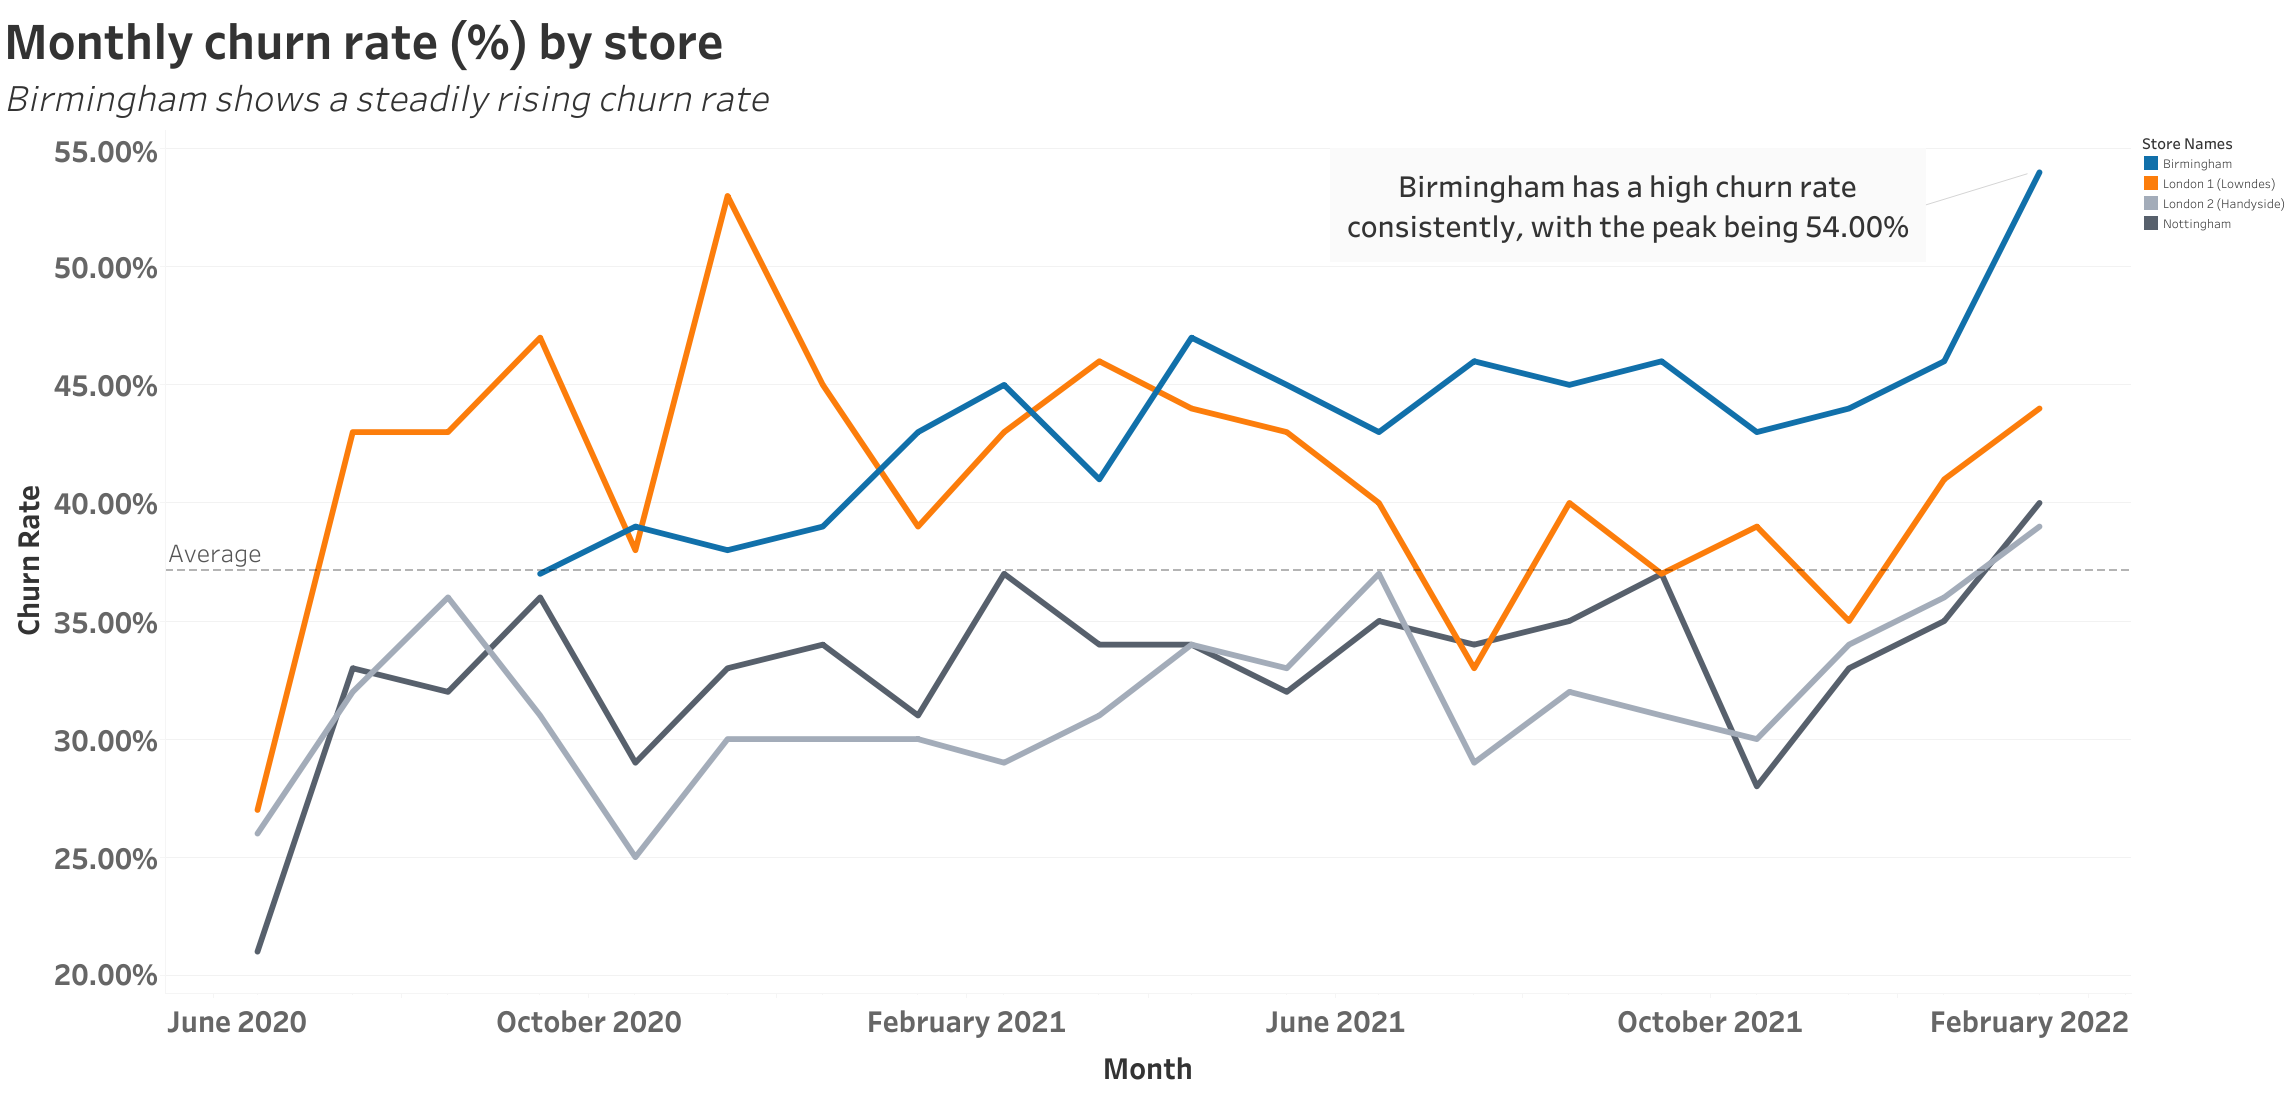
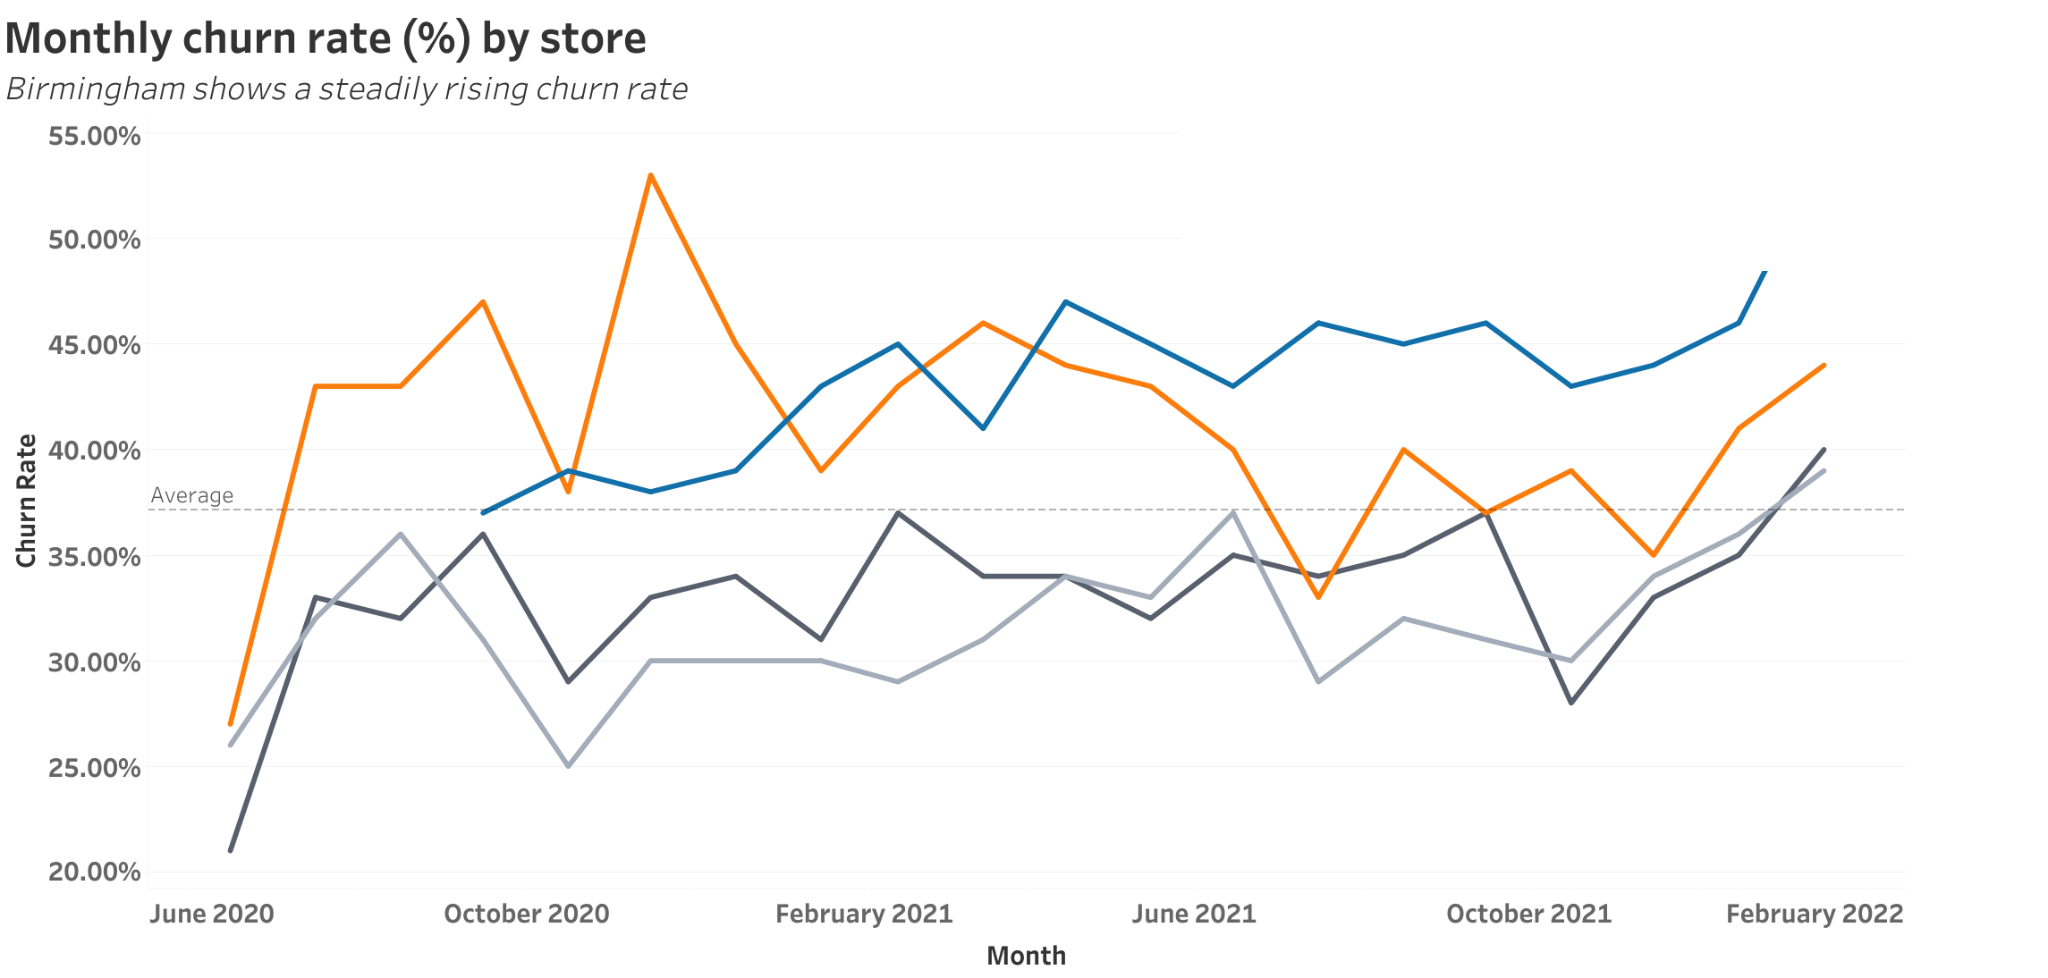
privacy changes

diff --git a/projects/store-analysis.html b/projects/store-analysis.html
@@ -113,7 +113,8 @@
             I developed monthly churn and new customer growth metrics, which became key inputs into the final recommendation.
           </p>
           <p>
-            The aim was to understand not just how each store was performing, but why.
+            The aim was to understand not just how each store was performing, but why. It is also important to note that these figures have been modified for public sharing.
+            Exact names and numbers can be shared privately upon request.
           </p>
         </section>
 
@@ -131,8 +132,8 @@
         <section>
           <h3>Key Insight</h3>
           <p>
-            One store, Birmingham, showed a very different pattern compared to the others. It had the highest churn rate in the dataset, peaking at around 54%,
-            well above the company average of roughly 37%.
+            One store, marked in blue, showed a very different pattern compared to the others. It had the highest churn rate in the dataset, peaking at around 54%,
+            well above the company average rate shown below.
           </p>
           <p>
             However, its new customer growth rate remained broadly in line with the other stores, including the strongest performer. This was the key insight.
@@ -150,7 +151,7 @@
                 <img src="../images/das1.png" alt="Monthly churn rate by store" class="dashboard-img" />
               </a>
               <figcaption>
-                Birmingham consistently records the highest churn, often above the company average, pointing to a clear retention issue.
+                The blue store consistently records the highest churn, often above the company average, pointing to a clear retention issue.
               </figcaption>
             </figure>
             <p>
@@ -165,7 +166,7 @@
                 <img src="../images/das2.png" alt="Monthly growth rate by store" class="dashboard-img" />
               </a>
               <figcaption>
-                Despite high churn, Birmingham's growth trend is similar to other stores, indicating demand is still present.
+                Despite high churn, the blue store's growth trend is similar to other stores, indicating demand is still present.
               </figcaption>
             </figure>
             <p>
@@ -178,7 +179,7 @@
         <section>
           <h3>Recommendation</h3>
           <p>
-            Our group recommended focusing marketing investment on Birmingham. While it underperforms on headline metrics, it offers the strongest upside.
+            Our group recommended focusing marketing investment on the blue store. While it underperforms on headline metrics, it offers the strongest upside.
           </p>
           <ul>
             <li>Customers are still being acquired at a normal rate</li>

diff --git a/projects/ecommerce-sales-analysis.html b/projects/ecommerce-sales-analysis.html
@@ -50,10 +50,10 @@
               <li>
                 <a class="icon solid fa-th" href="../projects.html"><span>Projects</span></a>
                 <ul>
-                <li><a href="ecommerce-sales-analysis.html"><span>E-Commerce Sales Analysis</span></a></li>
-                <li><a href="steam-games-analysis.html"><span>Steam Games Analysis</span></a></li>
-                <li><a href="classification-models.html"><span>Classification Models</span></a></li>
-                <li><a href="store-analysis.html"><span>Store Performance Analysis</span></a></li>
+                  <li><a href="ecommerce-sales-analysis.html"><span>E-Commerce Sales Analysis</span></a></li>
+                  <li><a href="steam-games-analysis.html"><span>Steam Games Analysis</span></a></li>
+                  <li><a href="classification-models.html"><span>Classification Models</span></a></li>
+                  <li><a href="store-analysis.html"><span>Store Performance Analysis</span></a></li>
                   <!-- Add more project links here -->
                 </ul>
               </li>

diff --git a/index.html b/index.html
@@ -23,10 +23,10 @@
 			  <li>
 				<a class="icon solid fa-th" href="projects.html"><span>Projects</span></a>
 				<ul>
-				<li><a href="ecommerce-sales-analysis.html"><span>E-Commerce Sales Analysis</span></a></li>
-                <li><a href="steam-games-analysis.html"><span>Steam Games Analysis</span></a></li>
-                <li><a href="classification-models.html"><span>Classification Models</span></a></li>
-                <li><a href="store-analysis.html"><span>Store Performance Analysis</span></a></li>
+					<li><a href="ecommerce-sales-analysis.html"><span>E-Commerce Sales Analysis</span></a></li>
+					<li><a href="steam-games-analysis.html"><span>Steam Games Analysis</span></a></li>
+					<li><a href="classification-models.html"><span>Classification Models</span></a></li>
+					<li><a href="store-analysis.html"><span>Store Performance Analysis</span></a></li>
 				  <!-- Add more project links here -->
 				</ul>
 			  </li>
